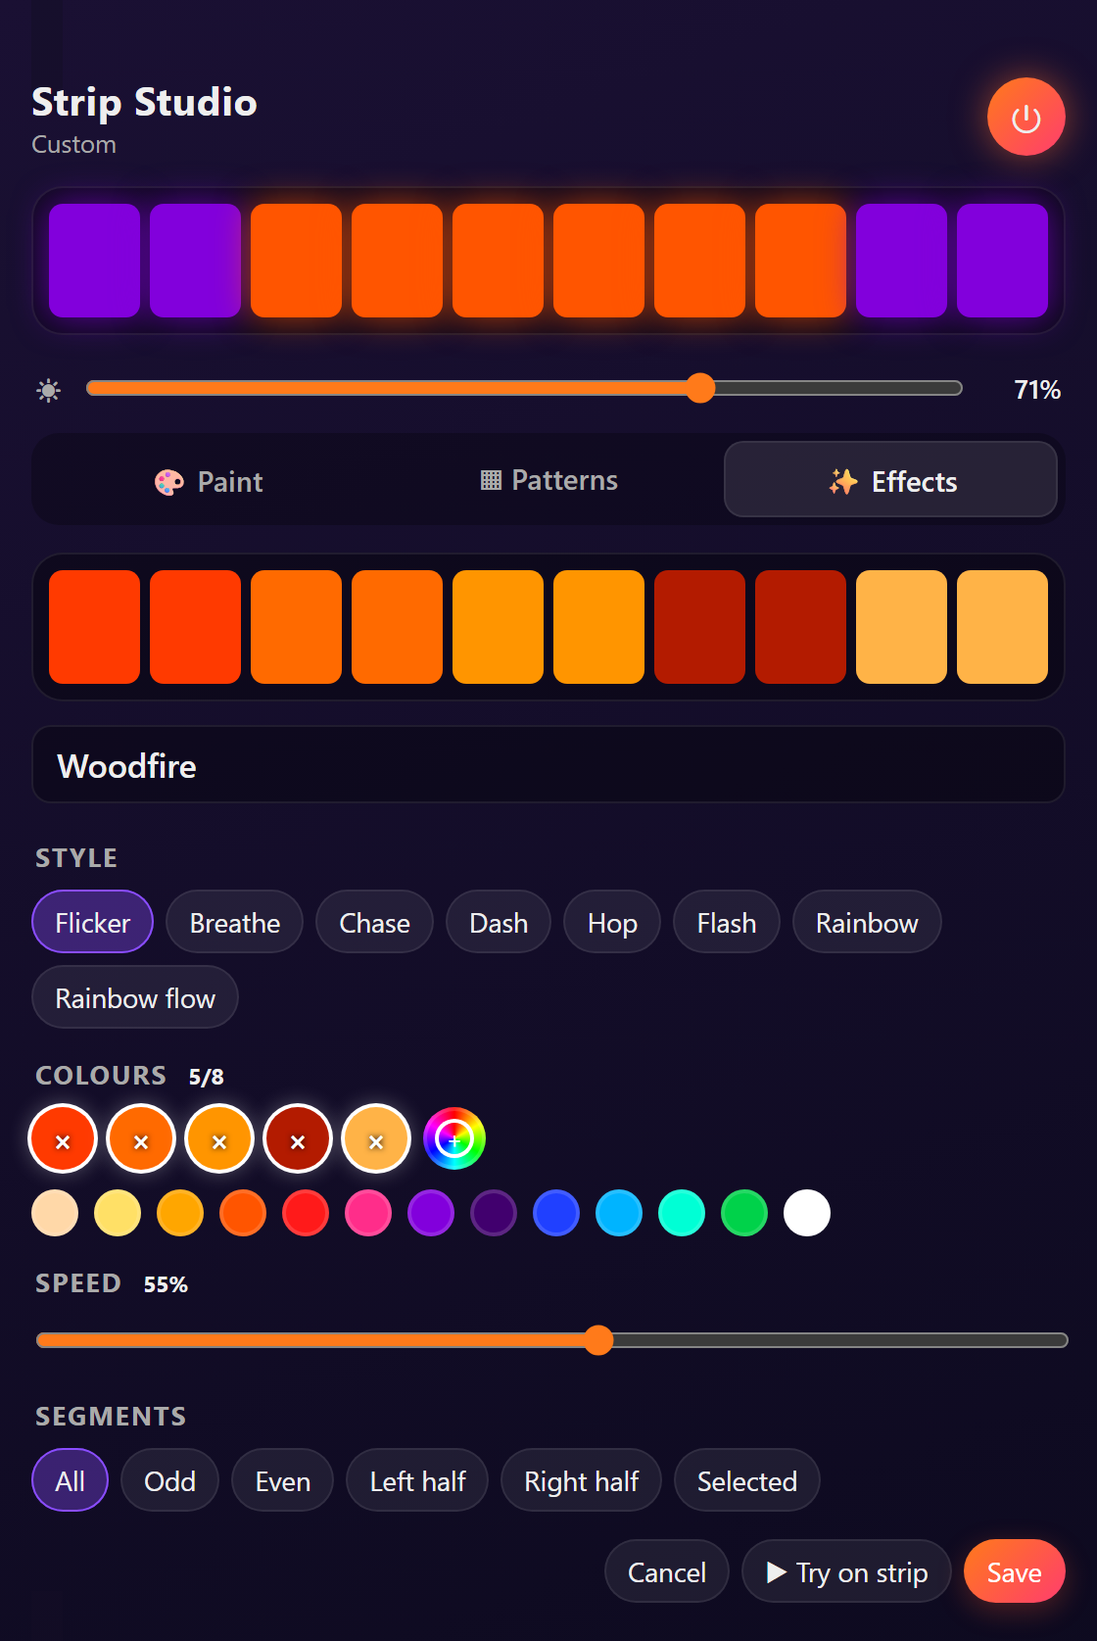
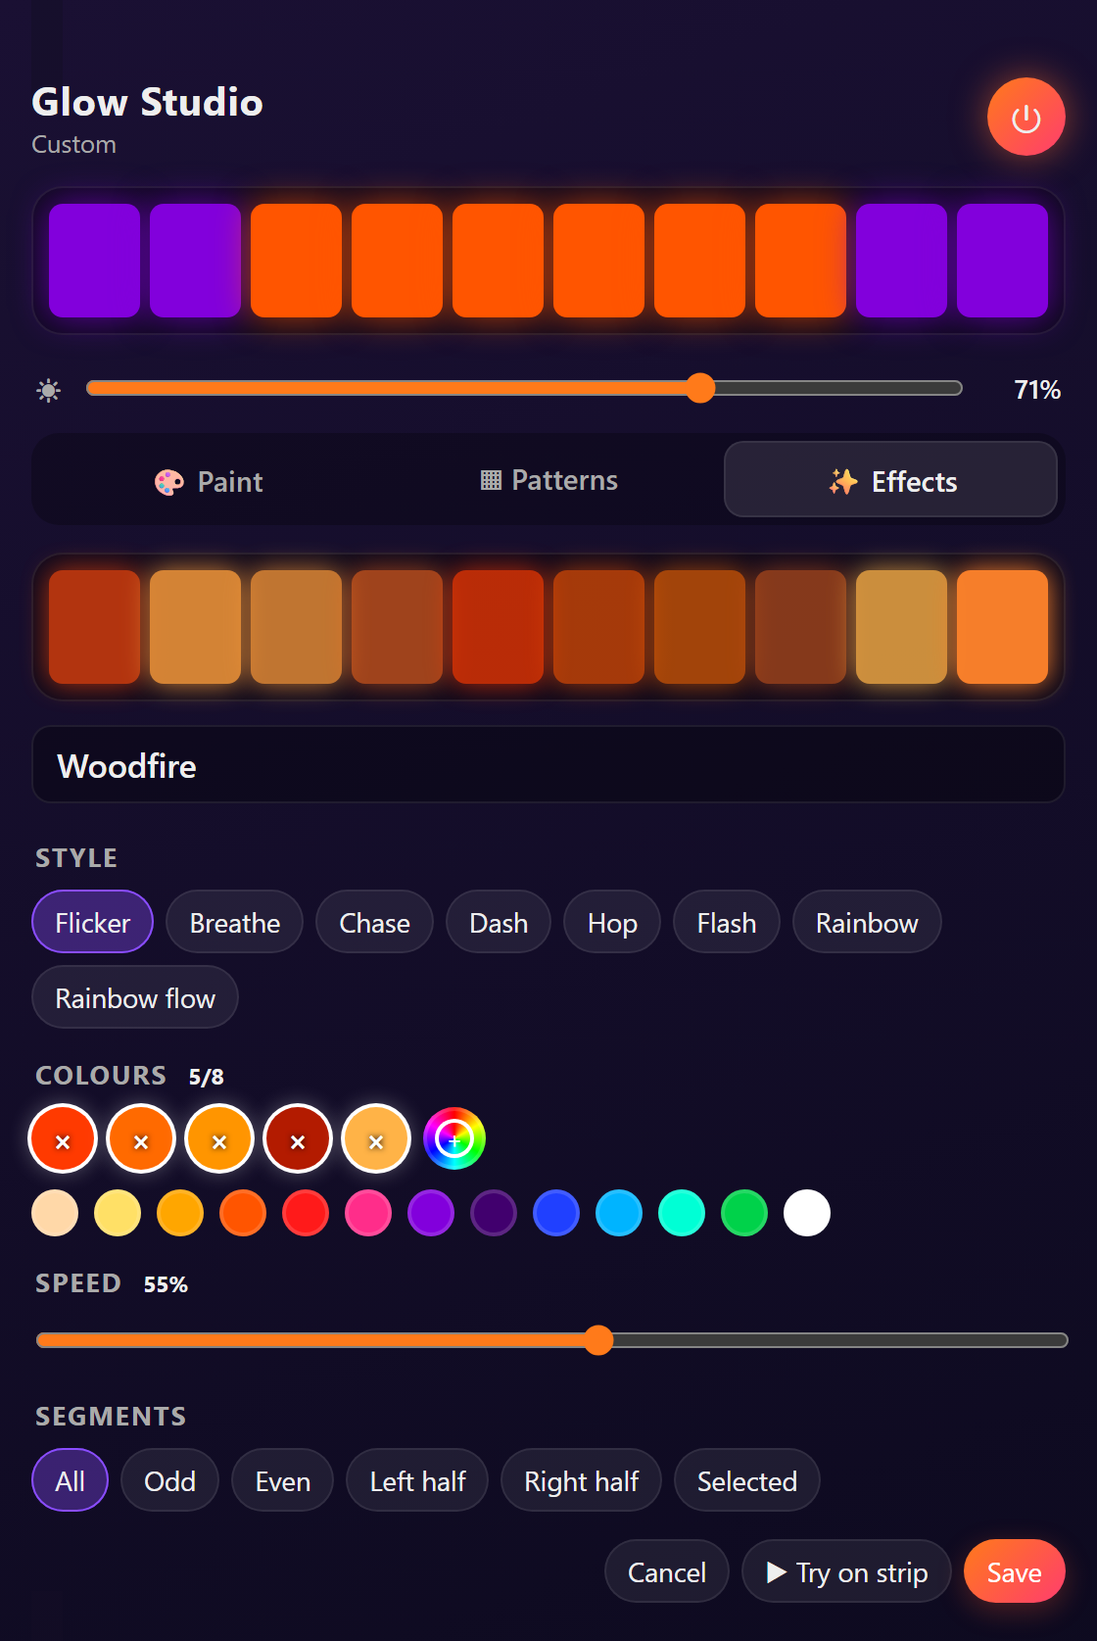
feat!: rename to Glow Studio
Card type is now custom:glow-studio-card (file glow-studio-card.js).
Default library topic/entity are now glow_studio/<light>/library and
sensor.glow_studio_<light>.

Changed region(s): [[0.0312, 0.3104, 0.9688, 0.4346], [0.0312, 0.031, 0.25, 0.0931]]

diff --git a/dev/index.html b/dev/index.html
@@ -1,18 +1,18 @@
 <!doctype html><html><head><meta charset="utf-8"><meta name="viewport" content="width=device-width,initial-scale=1">
-<title>Strip Studio dev</title>
+<title>Glow Studio dev</title>
 <style>body{margin:0;padding:16px;background:linear-gradient(160deg,#1a1033,#0d0a1f);color:#eee;font-family:Roboto,system-ui,sans-serif}
 ha-card{display:block;border-radius:18px;border:1px solid rgba(255,255,255,.08);max-width:520px;margin:auto}</style></head><body>
-<strip-studio-card id="c"></strip-studio-card>
+<glow-studio-card id="c"></glow-studio-card>
 <script type="module">
-import "../dist/strip-studio-card.js";
+import "../dist/glow-studio-card.js";
 const params = new URLSearchParams(location.search);
 const states = {"light.bed_strip":{state:"on",attributes:{brightness:180,friendly_name:"Bed strip"}},
   "number.bed_strip_length":{state:"2"}};
-if (!params.has("fresh")) states["sensor.strip_studio_bed_strip"] = {state:"1",attributes:{"version":1,"patterns":[{"id":"p0","name":"Golden hour","colors":["#ffc233","#ffb52d","#ffa828","#ff9b22","#ff8e1c","#ff8117","#ff7411","#ff670b","#ff5a06","#ff4d00"]},{"id":"p1","name":"Dusk","colors":["#000000","#41006e","#ff5500","#ff7a00","#ffa600","#ffa600","#ff7a00","#ff5500","#41006e","#000000"]},{"id":"p2","name":"Sunset sky","colors":["#8200dc","#8200dc","#ff5500","#ff5500","#ff5500","#ff5500","#ff5500","#ff5500","#8200dc","#8200dc"]},{"id":"p3","name":"Ocean","colors":["#001a66","#003177","#004788","#005e99","#0074aa","#008bbb","#00a1cc","#00b8dd","#00ceee","#00e5ff"]},{"id":"p4","name":"Forest","colors":["#0b3d0b","#1b4f0f","#2b6213","#3b7416","#4b861a","#5b991e","#6bab22","#7bbd25","#8bd029","#9be22d"]},{"id":"p5","name":"Candy","colors":["#ff4fa3","#8ad8ff","#ff4fa3","#8ad8ff","#ff4fa3","#8ad8ff","#ff4fa3","#8ad8ff","#ff4fa3","#8ad8ff"]},{"id":"p6","name":"Neon","colors":["#ff00e6","#ff00e6","#ff00e6","#ff00e6","#ff00e6","#00f0ff","#00f0ff","#00f0ff","#00f0ff","#00f0ff"]},{"id":"p7","name":"Rainbow","colors":["#ff0000","#ff6a00","#ffd000","#7aff00","#00ff6a","#00ffe1","#0080ff","#3a00ff","#b000ff","#ff00a8"]},{"id":"p8","name":"Reading","colors":["#ffd8a8","#ffd8a8","#ffd8a8","#ffd8a8","#ffd8a8","#ffd8a8","#ffd8a8","#ffd8a8","#ffd8a8","#ffd8a8"]},{"id":"p9","name":"Night light","colors":["#3a1200","#3a1200","#000000","#000000","#000000","#000000","#000000","#000000","#000000","#000000"]},{"id":"p10","name":"Ice","colors":["#ffffff","#e7efff","#d0deff","#b8ceff","#a0bdff","#89adff","#719cff","#598cff","#427bff","#2a6bff"]}],"effects":[{"id":"e0","name":"Woodfire","type":"flicker","colors":["#ff3a00","#ff6a00","#ff9500","#b31b00","#ffb347"],"speed":55,"segments":"all"},{"id":"e1","name":"Candlelight","type":"flicker","colors":["#ff8c1a","#ffb04d","#ff7a00"],"speed":30,"segments":"all"},{"id":"e2","name":"Ember glow","type":"breathing","colors":["#ff2a00","#7a0f00"],"speed":20,"segments":"all"},{"id":"e3","name":"Ocean waves","type":"chasing","colors":["#0040ff","#00b4ff","#00ffd5","#003080"],"speed":25,"segments":"all"},{"id":"e4","name":"Aurora","type":"chasing","colors":["#00ff9c","#00d4ff","#7a00ff","#00ff5a"],"speed":15,"segments":"all"},{"id":"e5","name":"Lava lamp","type":"breathing","colors":["#ff0040","#ff5a00","#c000ff"],"speed":15,"segments":"all"},{"id":"e6","name":"Starry night","type":"dash","colors":["#0a1aff","#ffffff","#3a6bff"],"speed":30,"segments":"all"},{"id":"e7","name":"Sunset drift","type":"breathing","colors":["#ffb300","#ff5500","#8200dc"],"speed":10,"segments":"all"},{"id":"e8","name":"Rainbow","type":"rainbow1","colors":[],"speed":50,"segments":"all"},{"id":"e9","name":"Rainbow flow","type":"rainbow2","colors":[],"speed":40,"segments":"all"},{"id":"e10","name":"Disco","type":"hopping","colors":["#ff0000","#00ff00","#0000ff","#ff00ff","#ffff00","#00ffff"],"speed":85,"segments":"all"},{"id":"e11","name":"Heartbeat","type":"breathing","colors":["#ff0022"],"speed":75,"segments":"all"},{"id":"e12","name":"Christmas","type":"chasing","colors":["#ff0000","#00c000","#ffffff"],"speed":40,"segments":"all"},{"id":"e13","name":"Police","type":"flash","colors":["#ff0000","#0000ff"],"speed":90,"segments":"all"}],"active":null,"current":["#8200dc","#8200dc","#ff5500","#ff5500","#ff5500","#ff5500","#ff5500","#ff5500","#8200dc","#8200dc"]}};
+if (!params.has("fresh")) states["sensor.glow_studio_bed_strip"] = {state:"1",attributes:{"version":1,"patterns":[{"id":"p0","name":"Golden hour","colors":["#ffc233","#ffb52d","#ffa828","#ff9b22","#ff8e1c","#ff8117","#ff7411","#ff670b","#ff5a06","#ff4d00"]},{"id":"p1","name":"Dusk","colors":["#000000","#41006e","#ff5500","#ff7a00","#ffa600","#ffa600","#ff7a00","#ff5500","#41006e","#000000"]},{"id":"p2","name":"Sunset sky","colors":["#8200dc","#8200dc","#ff5500","#ff5500","#ff5500","#ff5500","#ff5500","#ff5500","#8200dc","#8200dc"]},{"id":"p3","name":"Ocean","colors":["#001a66","#003177","#004788","#005e99","#0074aa","#008bbb","#00a1cc","#00b8dd","#00ceee","#00e5ff"]},{"id":"p4","name":"Forest","colors":["#0b3d0b","#1b4f0f","#2b6213","#3b7416","#4b861a","#5b991e","#6bab22","#7bbd25","#8bd029","#9be22d"]},{"id":"p5","name":"Candy","colors":["#ff4fa3","#8ad8ff","#ff4fa3","#8ad8ff","#ff4fa3","#8ad8ff","#ff4fa3","#8ad8ff","#ff4fa3","#8ad8ff"]},{"id":"p6","name":"Neon","colors":["#ff00e6","#ff00e6","#ff00e6","#ff00e6","#ff00e6","#00f0ff","#00f0ff","#00f0ff","#00f0ff","#00f0ff"]},{"id":"p7","name":"Rainbow","colors":["#ff0000","#ff6a00","#ffd000","#7aff00","#00ff6a","#00ffe1","#0080ff","#3a00ff","#b000ff","#ff00a8"]},{"id":"p8","name":"Reading","colors":["#ffd8a8","#ffd8a8","#ffd8a8","#ffd8a8","#ffd8a8","#ffd8a8","#ffd8a8","#ffd8a8","#ffd8a8","#ffd8a8"]},{"id":"p9","name":"Night light","colors":["#3a1200","#3a1200","#000000","#000000","#000000","#000000","#000000","#000000","#000000","#000000"]},{"id":"p10","name":"Ice","colors":["#ffffff","#e7efff","#d0deff","#b8ceff","#a0bdff","#89adff","#719cff","#598cff","#427bff","#2a6bff"]}],"effects":[{"id":"e0","name":"Woodfire","type":"flicker","colors":["#ff3a00","#ff6a00","#ff9500","#b31b00","#ffb347"],"speed":55,"segments":"all"},{"id":"e1","name":"Candlelight","type":"flicker","colors":["#ff8c1a","#ffb04d","#ff7a00"],"speed":30,"segments":"all"},{"id":"e2","name":"Ember glow","type":"breathing","colors":["#ff2a00","#7a0f00"],"speed":20,"segments":"all"},{"id":"e3","name":"Ocean waves","type":"chasing","colors":["#0040ff","#00b4ff","#00ffd5","#003080"],"speed":25,"segments":"all"},{"id":"e4","name":"Aurora","type":"chasing","colors":["#00ff9c","#00d4ff","#7a00ff","#00ff5a"],"speed":15,"segments":"all"},{"id":"e5","name":"Lava lamp","type":"breathing","colors":["#ff0040","#ff5a00","#c000ff"],"speed":15,"segments":"all"},{"id":"e6","name":"Starry night","type":"dash","colors":["#0a1aff","#ffffff","#3a6bff"],"speed":30,"segments":"all"},{"id":"e7","name":"Sunset drift","type":"breathing","colors":["#ffb300","#ff5500","#8200dc"],"speed":10,"segments":"all"},{"id":"e8","name":"Rainbow","type":"rainbow1","colors":[],"speed":50,"segments":"all"},{"id":"e9","name":"Rainbow flow","type":"rainbow2","colors":[],"speed":40,"segments":"all"},{"id":"e10","name":"Disco","type":"hopping","colors":["#ff0000","#00ff00","#0000ff","#ff00ff","#ffff00","#00ffff"],"speed":85,"segments":"all"},{"id":"e11","name":"Heartbeat","type":"breathing","colors":["#ff0022"],"speed":75,"segments":"all"},{"id":"e12","name":"Christmas","type":"chasing","colors":["#ff0000","#00c000","#ffffff"],"speed":40,"segments":"all"},{"id":"e13","name":"Police","type":"flash","colors":["#ff0000","#0000ff"],"speed":90,"segments":"all"}],"active":null,"current":["#8200dc","#8200dc","#ff5500","#ff5500","#ff5500","#ff5500","#ff5500","#ff5500","#8200dc","#8200dc"]}};
 const hass = {states, entities:{"light.bed_strip":{entity_id:"light.bed_strip",device_id:"d1"},"number.bed_strip_length":{entity_id:"number.bed_strip_length",device_id:"d1"}},
   devices:{d1:{name:"Bed Strip"}},
   callService: async (d, s, data) => {
-    if (d === "mqtt" && data.topic.endsWith("/library")) { states["sensor.strip_studio_bed_strip"] = {state:"x",attributes:JSON.parse(data.payload)}; push(); }
+    if (d === "mqtt" && data.topic.endsWith("/library")) { states["sensor.glow_studio_bed_strip"] = {state:"x",attributes:JSON.parse(data.payload)}; push(); }
     if (d === "light" && s === "toggle") { const l = states["light.bed_strip"]; l.state = l.state === "on" ? "off" : "on"; push(); }
   }};
 const c = document.getElementById("c");

diff --git a/dist/glow-studio-card.js b/dist/glow-studio-card.js
@@ -227,9 +227,9 @@ var Base = typeof HTMLElement !== "undefined" ? HTMLElement : class {
 };
 var wait = (ms) => new Promise((r) => setTimeout(r, ms));
 var STEP_MS = 350;
-var StripStudioCard = class extends Base {
+var GlowStudioCard = class extends Base {
   static getConfigElement() {
-    return document.createElement("strip-studio-card-editor");
+    return document.createElement("glow-studio-card-editor");
   }
   static getStubConfig(hass) {
     const light = Object.keys(hass?.states || {}).find((e) => e.startsWith("light.") && /strip|led/i.test(e));
@@ -240,10 +240,10 @@ var StripStudioCard = class extends Base {
     if (!entity) throw new Error("Pick the strip's light entity (entity: light.xxx)");
     const slug = slugify(entity);
     this._cfg = {
-      title: "Strip Studio",
+      title: "Glow Studio",
       z2m_base: "zigbee2mqtt",
-      library_topic: `strip_studio/${slug}/library`,
-      library_entity: `sensor.strip_studio_${slug}`,
+      library_topic: `glow_studio/${slug}/library`,
+      library_entity: `sensor.glow_studio_${slug}`,
       ...config,
       entity
     };
@@ -309,7 +309,7 @@ var StripStudioCard = class extends Base {
   async _setup() {
     const id = this._cfg.library_entity.split(".")[1];
     const disc = {
-      name: `Strip Studio ${this._light?.attributes?.friendly_name || id}`,
+      name: `Glow Studio ${this._light?.attributes?.friendly_name || id}`,
       unique_id: id,
       object_id: id,
       default_entity_id: this._cfg.library_entity,
@@ -414,7 +414,7 @@ var StripStudioCard = class extends Base {
     if (!lib) {
       this.shadowRoot.innerHTML = `${head}<ha-card><div class="setup"><h3>${esc(this._cfg.title)}</h3>
         <p>First run: create the shared library of patterns and effects for this strip (${this._n} segments).</p>
-        <button class="wide pri" data-act="setup">\u2728 Set up Strip Studio</button></div></ha-card>`;
+        <button class="wide pri" data-act="setup">\u2728 Set up Glow Studio</button></div></ha-card>`;
       this.shadowRoot.querySelector("[data-act=setup]").onclick = () => this._setup();
       return;
     }
@@ -783,7 +783,7 @@ var LABELS = {
   z2m_topic: "Zigbee2MQTT set topic (optional, auto-detected)",
   segments: "Segments (optional, auto-detected: 5 per metre)"
 };
-var StripStudioCardEditor = class extends Base2 {
+var GlowStudioCardEditor = class extends Base2 {
   setConfig(config) {
     this._config = config;
     this._render();
@@ -811,15 +811,15 @@ var StripStudioCardEditor = class extends Base2 {
 };
 
 // src/index.js
-var VERSION = "1.0.0";
-if (!customElements.get("strip-studio-card")) customElements.define("strip-studio-card", StripStudioCard);
-if (!customElements.get("strip-studio-card-editor")) customElements.define("strip-studio-card-editor", StripStudioCardEditor);
+var VERSION = "1.1.0";
+if (!customElements.get("glow-studio-card")) customElements.define("glow-studio-card", GlowStudioCard);
+if (!customElements.get("glow-studio-card-editor")) customElements.define("glow-studio-card-editor", GlowStudioCardEditor);
 window.customCards = window.customCards || [];
 window.customCards.push({
-  type: "strip-studio-card",
-  name: "Strip Studio",
+  type: "glow-studio-card",
+  name: "Glow Studio",
   description: "Paint segments, save patterns and run hardware effects on an Aqara T1 LED strip (Zigbee2MQTT).",
   preview: false,
-  documentationURL: "https://github.com/danish-din/strip-studio-card"
+  documentationURL: "https://github.com/danish-din/glow-studio-card"
 });
-console.info(`%c STRIP-STUDIO %c ${VERSION} `, "background:#ff6a1a;color:#fff;font-weight:700", "background:#2a1d45;color:#fff");
+console.info(`%c GLOW-STUDIO %c ${VERSION} `, "background:#ff6a1a;color:#fff;font-weight:700", "background:#2a1d45;color:#fff");

diff --git a/src/card.js b/src/card.js
@@ -1,4 +1,4 @@
-// <strip-studio-card> — paint, patterns and hardware effects for an Aqara T1 LED strip via Zigbee2MQTT.
+// <glow-studio-card> — paint, patterns and hardware effects for an Aqara T1 LED strip via Zigbee2MQTT.
 import { esc, hex2rgb, mix, isDark, uid, slugify, segString, detectSegments, detectTopic, scaleColors } from "./helpers.js";
 import { FX_TYPES, SWATCHES, SEG_SETS, defaultLibrary } from "./defaults.js";
 import { fxStripHtml } from "./preview.js";
@@ -8,8 +8,8 @@ const Base = typeof HTMLElement !== "undefined" ? HTMLElement : class {};
 const wait = (ms) => new Promise((r) => setTimeout(r, ms));
 const STEP_MS = 350; // gap between Z2M writes when starting an effect
 
-export class StripStudioCard extends Base {
-  static getConfigElement() { return document.createElement("strip-studio-card-editor"); }
+export class GlowStudioCard extends Base {
+  static getConfigElement() { return document.createElement("glow-studio-card-editor"); }
   static getStubConfig(hass) {
     const light = Object.keys(hass?.states || {}).find((e) => e.startsWith("light.") && /strip|led/i.test(e));
     return { entity: light || "" };
@@ -20,8 +20,8 @@ export class StripStudioCard extends Base {
     if (!entity) throw new Error("Pick the strip's light entity (entity: light.xxx)");
     const slug = slugify(entity);
     this._cfg = {
-      title: "Strip Studio", z2m_base: "zigbee2mqtt",
-      library_topic: `strip_studio/${slug}/library`, library_entity: `sensor.strip_studio_${slug}`,
+      title: "Glow Studio", z2m_base: "zigbee2mqtt",
+      library_topic: `glow_studio/${slug}/library`, library_entity: `sensor.glow_studio_${slug}`,
       ...config, entity,
     };
     this._tab = "paint"; this._sel = new Set(); this._color = "#ff5500"; this._mirror = false;
@@ -65,7 +65,7 @@ export class StripStudioCard extends Base {
   async _setup() {
     const id = this._cfg.library_entity.split(".")[1];
     const disc = {
-      name: `Strip Studio ${this._light?.attributes?.friendly_name || id}`, unique_id: id, object_id: id,
+      name: `Glow Studio ${this._light?.attributes?.friendly_name || id}`, unique_id: id, object_id: id,
       default_entity_id: this._cfg.library_entity, state_topic: this._cfg.library_topic,
       value_template: "{{ value_json.version }}", json_attributes_topic: this._cfg.library_topic, icon: "mdi:palette",
     };
@@ -143,7 +143,7 @@ export class StripStudioCard extends Base {
     if (!lib) {
       this.shadowRoot.innerHTML = `${head}<ha-card><div class="setup"><h3>${esc(this._cfg.title)}</h3>
         <p>First run: create the shared library of patterns and effects for this strip (${this._n} segments).</p>
-        <button class="wide pri" data-act="setup">✨ Set up Strip Studio</button></div></ha-card>`;
+        <button class="wide pri" data-act="setup">✨ Set up Glow Studio</button></div></ha-card>`;
       this.shadowRoot.querySelector("[data-act=setup]").onclick = () => this._setup();
       return;
     }

diff --git a/src/index.js b/src/index.js
@@ -1,17 +1,17 @@
-import { StripStudioCard } from "./card.js";
-import { StripStudioCardEditor } from "./editor.js";
+import { GlowStudioCard } from "./card.js";
+import { GlowStudioCardEditor } from "./editor.js";
 
-const VERSION = "1.0.0";
+const VERSION = "1.1.0";
 
-if (!customElements.get("strip-studio-card")) customElements.define("strip-studio-card", StripStudioCard);
-if (!customElements.get("strip-studio-card-editor")) customElements.define("strip-studio-card-editor", StripStudioCardEditor);
+if (!customElements.get("glow-studio-card")) customElements.define("glow-studio-card", GlowStudioCard);
+if (!customElements.get("glow-studio-card-editor")) customElements.define("glow-studio-card-editor", GlowStudioCardEditor);
 
 window.customCards = window.customCards || [];
 window.customCards.push({
-  type: "strip-studio-card",
-  name: "Strip Studio",
+  type: "glow-studio-card",
+  name: "Glow Studio",
   description: "Paint segments, save patterns and run hardware effects on an Aqara T1 LED strip (Zigbee2MQTT).",
   preview: false,
-  documentationURL: "https://github.com/danish-din/strip-studio-card",
+  documentationURL: "https://github.com/danish-din/glow-studio-card",
 });
-console.info(`%c STRIP-STUDIO %c ${VERSION} `, "background:#ff6a1a;color:#fff;font-weight:700", "background:#2a1d45;color:#fff");
+console.info(`%c GLOW-STUDIO %c ${VERSION} `, "background:#ff6a1a;color:#fff;font-weight:700", "background:#2a1d45;color:#fff");

diff --git a/src/editor.js b/src/editor.js
@@ -14,7 +14,7 @@ const LABELS = {
   segments: "Segments (optional, auto-detected: 5 per metre)",
 };
 
-export class StripStudioCardEditor extends Base {
+export class GlowStudioCardEditor extends Base {
   setConfig(config) { this._config = config; this._render(); }
   set hass(hass) { this._hass = hass; this._render(); }
 

diff --git a/README.md b/README.md
@@ -1,16 +1,16 @@
-# Strip Studio
+# Glow Studio
 
 [![hacs_badge](https://img.shields.io/badge/HACS-Custom-41BDF5.svg)](https://hacs.xyz/docs/faq/custom_repositories)
-[![Validate](https://github.com/danish-din/strip-studio-card/actions/workflows/validate.yml/badge.svg)](https://github.com/danish-din/strip-studio-card/actions/workflows/validate.yml)
+[![Validate](https://github.com/danish-din/glow-studio-card/actions/workflows/validate.yml/badge.svg)](https://github.com/danish-din/glow-studio-card/actions/workflows/validate.yml)
 
 A Home Assistant dashboard card for the **Aqara LED Strip T1** that finally uses what the strip can do:
 paint every segment its own colour, save your designs, and run the strip's built-in animated effects
 (woodfire, candlelight, aurora…) with your own colours. Like the Yeelight / Aqara apps, but inside Home Assistant.
 
 <p align="center">
-  <img src="https://raw.githubusercontent.com/danish-din/strip-studio-card/main/docs/paint.png" width="270" alt="Paint">
-  <img src="https://raw.githubusercontent.com/danish-din/strip-studio-card/main/docs/patterns.png" width="270" alt="Patterns">
-  <img src="https://raw.githubusercontent.com/danish-din/strip-studio-card/main/docs/effects.png" width="270" alt="Effects">
+  <img src="https://raw.githubusercontent.com/danish-din/glow-studio-card/main/docs/paint.png" width="270" alt="Paint">
+  <img src="https://raw.githubusercontent.com/danish-din/glow-studio-card/main/docs/patterns.png" width="270" alt="Patterns">
+  <img src="https://raw.githubusercontent.com/danish-din/glow-studio-card/main/docs/effects.png" width="270" alt="Effects">
 </p>
 
 ## Features
@@ -23,7 +23,7 @@ paint every segment its own colour, save your designs, and run the strip's built
 - **Zero config.** Pick the light; the Zigbee2MQTT topic and the number of segments (5 per metre) are detected automatically.
 - Brightness and power controls built in, visual card editor, follows reduced-motion settings.
 
-<p align="center"><img src="https://raw.githubusercontent.com/danish-din/strip-studio-card/main/docs/editor.png" width="300" alt="Effect editor"></p>
+<p align="center"><img src="https://raw.githubusercontent.com/danish-din/glow-studio-card/main/docs/editor.png" width="300" alt="Effect editor"></p>
 
 ## Requirements
 
@@ -34,39 +34,39 @@ paint every segment its own colour, save your designs, and run the strip's built
 
 ### HACS (recommended)
 
-1. HACS → ⋮ → **Custom repositories** → add `https://github.com/danish-din/strip-studio-card`, type **Dashboard**.
-2. Search for **Strip Studio**, install, and reload your browser.
+1. HACS → ⋮ → **Custom repositories** → add `https://github.com/danish-din/glow-studio-card`, type **Dashboard**.
+2. Search for **Glow Studio**, install, and reload your browser.
 
 ### Manual
 
-1. Download `strip-studio-card.js` from the [latest release](https://github.com/danish-din/strip-studio-card/releases).
+1. Download `glow-studio-card.js` from the [latest release](https://github.com/danish-din/glow-studio-card/releases).
 2. Copy it to `config/www/`.
-3. Settings → Dashboards → ⋮ → **Resources** → add `/local/strip-studio-card.js` as a **JavaScript module**.
+3. Settings → Dashboards → ⋮ → **Resources** → add `/local/glow-studio-card.js` as a **JavaScript module**.
 
 ## Usage
 
-Add the card from the dashboard editor (search "Strip Studio") and pick your strip, or in YAML:
+Add the card from the dashboard editor (search "Glow Studio") and pick your strip, or in YAML:
 
 ```yaml
-type: custom:strip-studio-card
+type: custom:glow-studio-card
 entity: light.bedroom_strip
 ```
 
-The first time, the card shows **✨ Set up Strip Studio**. Tap it to create the shared library with the starter patterns and effects.
+The first time, the card shows **✨ Set up Glow Studio**. Tap it to create the shared library with the starter patterns and effects.
 
 | Option | Default | Description |
 | --- | --- | --- |
 | `entity` | **required** | The strip's light entity. |
-| `title` | `Strip Studio` | Card title. |
+| `title` | `Glow Studio` | Card title. |
 | `z2m_topic` | auto | Zigbee2MQTT set topic, e.g. `zigbee2mqtt/Bedroom Strip/set`. Auto-detected from the device name. Set it if your Home Assistant device name differs from the Zigbee2MQTT friendly name. |
 | `z2m_base` | `zigbee2mqtt` | Base topic, if you changed it in Zigbee2MQTT. |
 | `segments` | auto | Number of segments. Auto-detected from the strip's `length` (5 segments per metre), else 10. |
-| `library_topic` | `strip_studio/<light>/library` | Retained MQTT topic that stores the library. |
-| `library_entity` | `sensor.strip_studio_<light>` | The MQTT sensor that mirrors the library. |
+| `library_topic` | `glow_studio/<light>/library` | Retained MQTT topic that stores the library. |
+| `library_entity` | `sensor.glow_studio_<light>` | The MQTT sensor that mirrors the library. |
 
-### Tip: open Strip Studio instead of the normal light dialog
+### Tip: open Glow Studio instead of the normal light dialog
 
-With [browser_mod](https://github.com/thomasloven/hass-browser_mod) you can make tapping the light open Strip Studio:
+With [browser_mod](https://github.com/thomasloven/hass-browser_mod) you can make tapping the light open Glow Studio:
 
 ```yaml
 type: custom:popup-card
@@ -75,7 +75,7 @@ target:
 popup_card_all_views: true
 title: Bedroom strip
 card:
-  type: custom:strip-studio-card
+  type: custom:glow-studio-card
   entity: light.bedroom_strip
 ```
 
@@ -90,7 +90,7 @@ card:
 ```bash
 npm install
 npm test        # unit + DOM tests (node:test + happy-dom) with coverage
-npm run build   # bundles src/ into dist/strip-studio-card.js
+npm run build   # bundles src/ into dist/glow-studio-card.js
 ```
 
 Open `dev/index.html` through a local web server for a mock Home Assistant to click around in.
